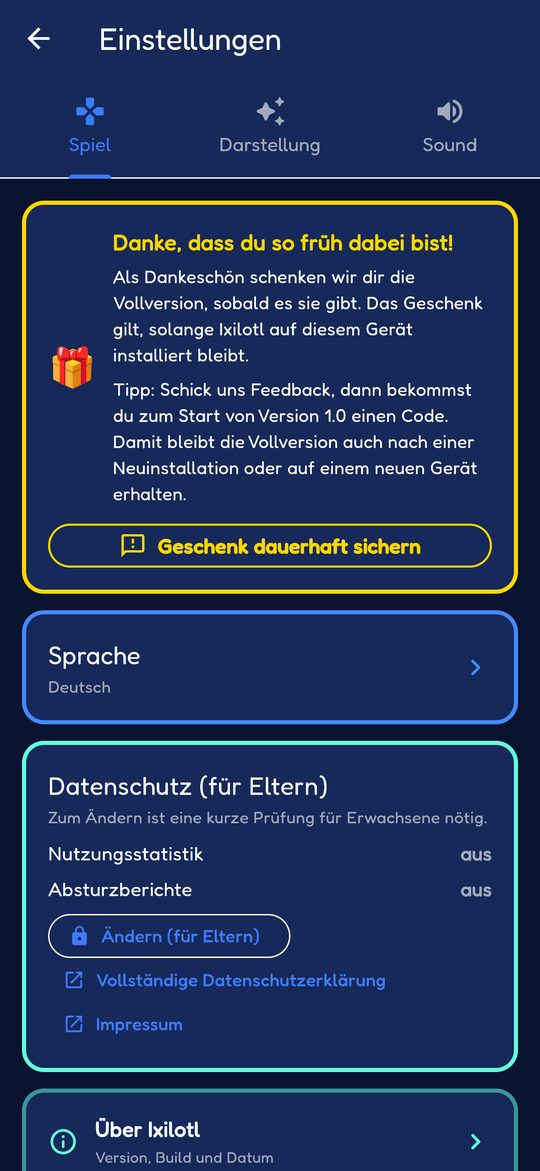
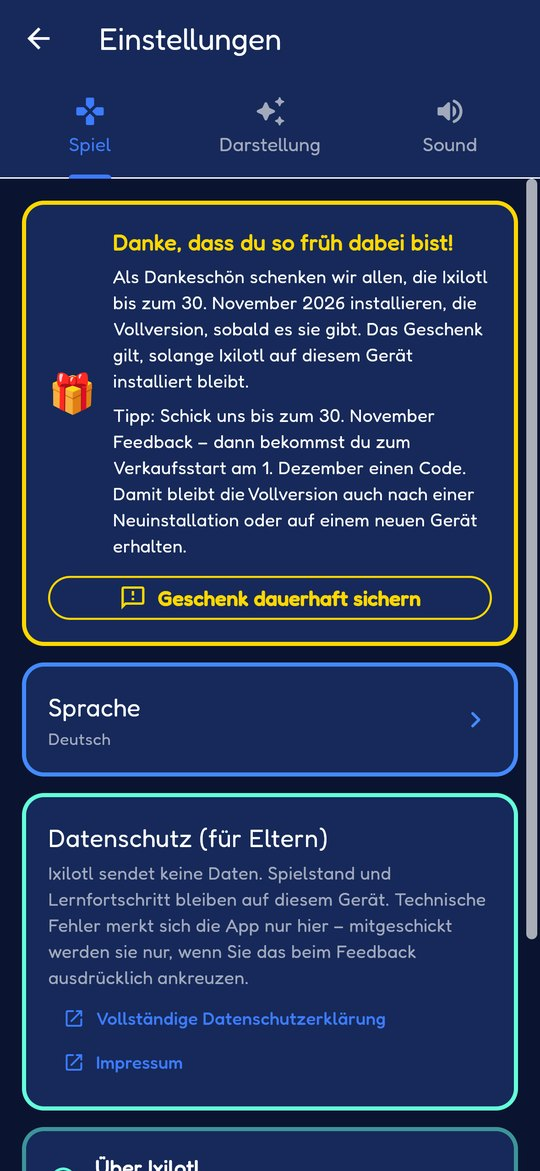
Startseite: Ohne Stress, Nur ein Ziel, Signatur, Verkaufsstart 1.12.; Sumpfsoftwarestudio; neues Geschenk-Bild
- "Ohne Streit" -> "Ohne Stress" (EN: "No stress")
- Loesung: "Nur ein Ziel: alle 100 Aufgaben sicher abrufen."
- Signatur: Sebastian Buhl, Sumpfsoftwarestudio, Wiesbaden
- Verkaufsstart konkret: 1. Dezember 2026
- Schreibweise ueberall "Sumpfsoftwarestudio"
- Geschenk-Bild aus aktueller App (Stichtag 30.11., keine Datenerhebung)

Changed region(s): [[0.0296, 0.1537, 1.0, 1.0], [0.0889, 0.2767, 0.1778, 0.3689]]

diff --git a/index.html b/index.html
@@ -35,7 +35,7 @@
     <div>
       <span class="badge nur-vorab">Ab 9. November im offenen Test</span>
       <span class="badge nur-live">Jetzt im offenen Test</span>
-      <h1>Das Einmaleins.<br><em>Sicher im Kopf.</em><br>Ohne Streit.</h1>
+      <h1>Das Einmaleins.<br><em>Sicher im Kopf.</em><br>Ohne Stress.</h1>
       <p class="lead">Ixilotl macht aus dem Üben ein Spiel, das Kinder freiwillig spielen. Keine Werbung, kein Abo, keine Datensammlung.</p>
       <div class="ctas">
         <a class="btn btn-store nur-live" href="https://play.google.com/store/apps/details?id=com.ixilotl.ixilotl">
@@ -84,7 +84,7 @@
     </div>
     <div>
       <p class="kicker">Die Lösung</p>
-      <h2>Eine Sache richtig: alle 100 Aufgaben sicher abrufen.</h2>
+      <h2>Nur ein Ziel: alle 100 Aufgaben sicher abrufen.</h2>
       <p class="intro">Ixilotl trainiert genau das. Dafür nutzt es, was Spiele-Apps so fesselnd macht – aber ausgerichtet aufs Lernen statt auf Werbung und Käufe. Jede richtige Antwort ist ein kleiner Erfolg mit Glitzer, Klang und einem jubelnden Ixi.</p>
       <div class="ctas"><a class="btn btn-coral" href="#preis">Kostenlos ausprobieren</a></div>
     </div>
@@ -192,10 +192,10 @@
         <p class="kicker" style="color:var(--sand)">Preis</p>
         <h2>Jetzt kostenlos – und für Frühstarter geschenkt.</h2>
         <p>Ixilotl ist im offenen Test kostenlos. Wer die App bis einschließlich <b>30. November 2026</b> installiert und startet, bekommt die Vollversion als Dankeschön geschenkt, sobald es sie gibt. Das Geschenk gilt, solange Ixilotl auf dem Gerät installiert bleibt. <a href="tester-dankeschoen/" style="color:#fff">Teilnahmebedingungen</a></p>
-        <p>Ab dem Verkaufsstart (geplant Anfang Dezember 2026) lässt sich Ixilotl zunächst kostenlos ausprobieren; danach gibt es die Vollversion als einmaligen Kauf. Kein Abo.</p>
+        <p>Ab dem Verkaufsstart am 1. Dezember 2026 lässt sich Ixilotl zunächst kostenlos ausprobieren; danach gibt es die Vollversion als einmaligen Kauf. Kein Abo.</p>
         <p style="font-size:1.08rem;color:#fff;margin-top:18px"><b>Unser Versprechen:</b> Ixilotl ist ein einmaliger Kauf. Es gibt kein Abo und keine kostenpflichtigen Erweiterungen. Alles, was wir künftig für Ixilotl veröffentlichen – auch neue Inhalte wie weitere Reihen –, erhalten Besitzer der Vollversion ohne Aufpreis.</p>
         <p style="font-size:.88rem">Welche Inhalte wann erscheinen, ist geplant, aber nicht zugesagt. Das Versprechen betrifft die Kosten: Was kommt, kostet nichts extra.</p>
-        <p class="sig">– Sebastian Buhl</p>
+        <p class="sig">– Sebastian Buhl, Sumpfsoftwarestudio, Wiesbaden</p>
         <div class="ctas" style="display:flex;flex-wrap:wrap;gap:12px;margin-top:16px">
           <a class="btn btn-store nur-live" href="https://play.google.com/store/apps/details?id=com.ixilotl.ixilotl"><span><small>Kostenlos bei</small>Google Play</span></a>
           <span class="btn btn-ghost nur-vorab">Ab 9. November bei Google Play</span>
@@ -294,7 +294,7 @@
 
 <footer>
   <div class="wrap">
-    <span>Ixilotl · Sumpfsoftware Studio · Sebastian Buhl</span>
+    <span>Ixilotl · Sumpfsoftwarestudio · Sebastian Buhl</span>
     <span><a href="mailto:support@ixilotl.de">support@ixilotl.de</a> · <a href="tester-dankeschoen/">Tester-Dankeschön</a> · <a href="datenschutz/">Datenschutz</a> · <a href="impressum/">Impressum</a></span>
   </div>
 </footer>

diff --git a/en/index.html b/en/index.html
@@ -35,7 +35,7 @@
     <div>
       <span class="badge nur-vorab">Open test from 9 November</span>
       <span class="badge nur-live">Now in open test</span>
-      <h1>Times tables.<br><em>Truly learned.</em><br>No arguments.</h1>
+      <h1>Times tables.<br><em>Truly learned.</em><br>No stress.</h1>
       <p class="lead">Ixilotl turns practice into a game children play of their own accord. No ads, no subscription, no data collection.</p>
       <div class="ctas">
         <a class="btn btn-store nur-live" href="https://play.google.com/store/apps/details?id=com.ixilotl.ixilotl"><span><small>Free on</small>Google Play</span></a>
@@ -78,7 +78,7 @@
     </div>
     <div>
       <p class="kicker">The solution</p>
-      <h2>One thing done right: recalling all 100 facts with confidence.</h2>
+      <h2>Just one goal: recalling all 100 facts with confidence.</h2>
       <p class="intro">That is exactly what Ixilotl trains. It uses what makes games so engaging – but aimed at learning instead of ads and purchases. Every correct answer is a small win, with sparkle, sound and a cheering Ixi.</p>
       <div class="ctas"><a class="btn btn-coral" href="#price">Try it for free</a></div>
     </div>
@@ -186,10 +186,10 @@
         <p class="kicker" style="color:var(--sand)">Price</p>
         <h2>Free now – and a gift for early starters.</h2>
         <p>Ixilotl is free during the open test. Anyone who installs and launches the app by <b>30 November 2026</b> (inclusive) gets the full version as a thank-you gift as soon as it exists. The gift applies as long as Ixilotl stays installed on the device. <a href="../tester-dankeschoen/" style="color:#fff">Terms (German)</a></p>
-        <p>From the sales launch (planned for early December 2026), Ixilotl can first be tried for free; after that, the full version is a one-time purchase. No subscription.</p>
+        <p>From the sales launch on 1 December 2026, Ixilotl can first be tried for free; after that, the full version is a one-time purchase. No subscription.</p>
         <p style="font-size:1.08rem;color:#fff;margin-top:18px"><b>Our promise:</b> Ixilotl is a one-time purchase. There is no subscription and there are no paid add-ons. Everything we release for Ixilotl in the future – including new content such as further times tables – comes at no extra cost to owners of the full version.</p>
         <p style="font-size:.88rem">Which content arrives when is planned, not guaranteed. The promise is about cost: whatever comes costs nothing extra.</p>
-        <p class="sig">– Sebastian Buhl</p>
+        <p class="sig">– Sebastian Buhl, Sumpfsoftwarestudio, Wiesbaden</p>
         <div class="ctas" style="display:flex;flex-wrap:wrap;gap:12px;margin-top:16px">
           <a class="btn btn-store nur-live" href="https://play.google.com/store/apps/details?id=com.ixilotl.ixilotl"><span><small>Free on</small>Google Play</span></a>
           <span class="btn btn-ghost nur-vorab">On Google Play from 9 November</span>
@@ -288,7 +288,7 @@
 
 <footer>
   <div class="wrap">
-    <span>Ixilotl · Sumpfsoftware Studio · Sebastian Buhl</span>
+    <span>Ixilotl · Sumpfsoftwarestudio · Sebastian Buhl</span>
     <span><a href="mailto:support@ixilotl.de">support@ixilotl.de</a> · <a href="../tester-dankeschoen/">Tester thank-you (German)</a> · <a href="datenschutz/">Privacy</a> · <a href="impressum/">Legal notice</a></span>
   </div>
 </footer>

diff --git a/beta/index.html b/beta/index.html
@@ -112,7 +112,7 @@
 </main>
 
 <footer>
-  <span>Ixilotl · Sumpfsoftware Studio · Sebastian Buhl</span>
+  <span>Ixilotl · Sumpfsoftwarestudio · Sebastian Buhl</span>
   <span><a href="mailto:support@ixilotl.de">support@ixilotl.de</a> · <a href="../datenschutz/">Datenschutz</a> · <a href="../impressum/">Impressum</a></span>
 </footer>
 

diff --git a/en/beta/index.html b/en/beta/index.html
@@ -112,7 +112,7 @@
 </main>
 
 <footer>
-  <span>Ixilotl · Sumpfsoftware Studio · Sebastian Buhl</span>
+  <span>Ixilotl · Sumpfsoftwarestudio · Sebastian Buhl</span>
   <span><a href="mailto:support@ixilotl.de">support@ixilotl.de</a> · <a href="../datenschutz/">Privacy</a> · <a href="../impressum/">Legal Notice</a></span>
 </footer>
 

diff --git a/en/impressum/index.html b/en/impressum/index.html
@@ -38,7 +38,7 @@
 
 <h2>Service provider</h2>
 <p>
-Sumpfsoftware Studio<br>
+Sumpfsoftwarestudio<br>
 Sebastian Buhl<br>
 Rheingoldstr. 5<br>
 65203 Wiesbaden<br>

diff --git a/impressum/index.html b/impressum/index.html
@@ -38,7 +38,7 @@
 
 <h2>Diensteanbieter</h2>
 <p>
-Sumpfsoftware Studio<br>
+Sumpfsoftwarestudio<br>
 Sebastian Buhl<br>
 Rheingoldstr. 5<br>
 65203 Wiesbaden<br>
